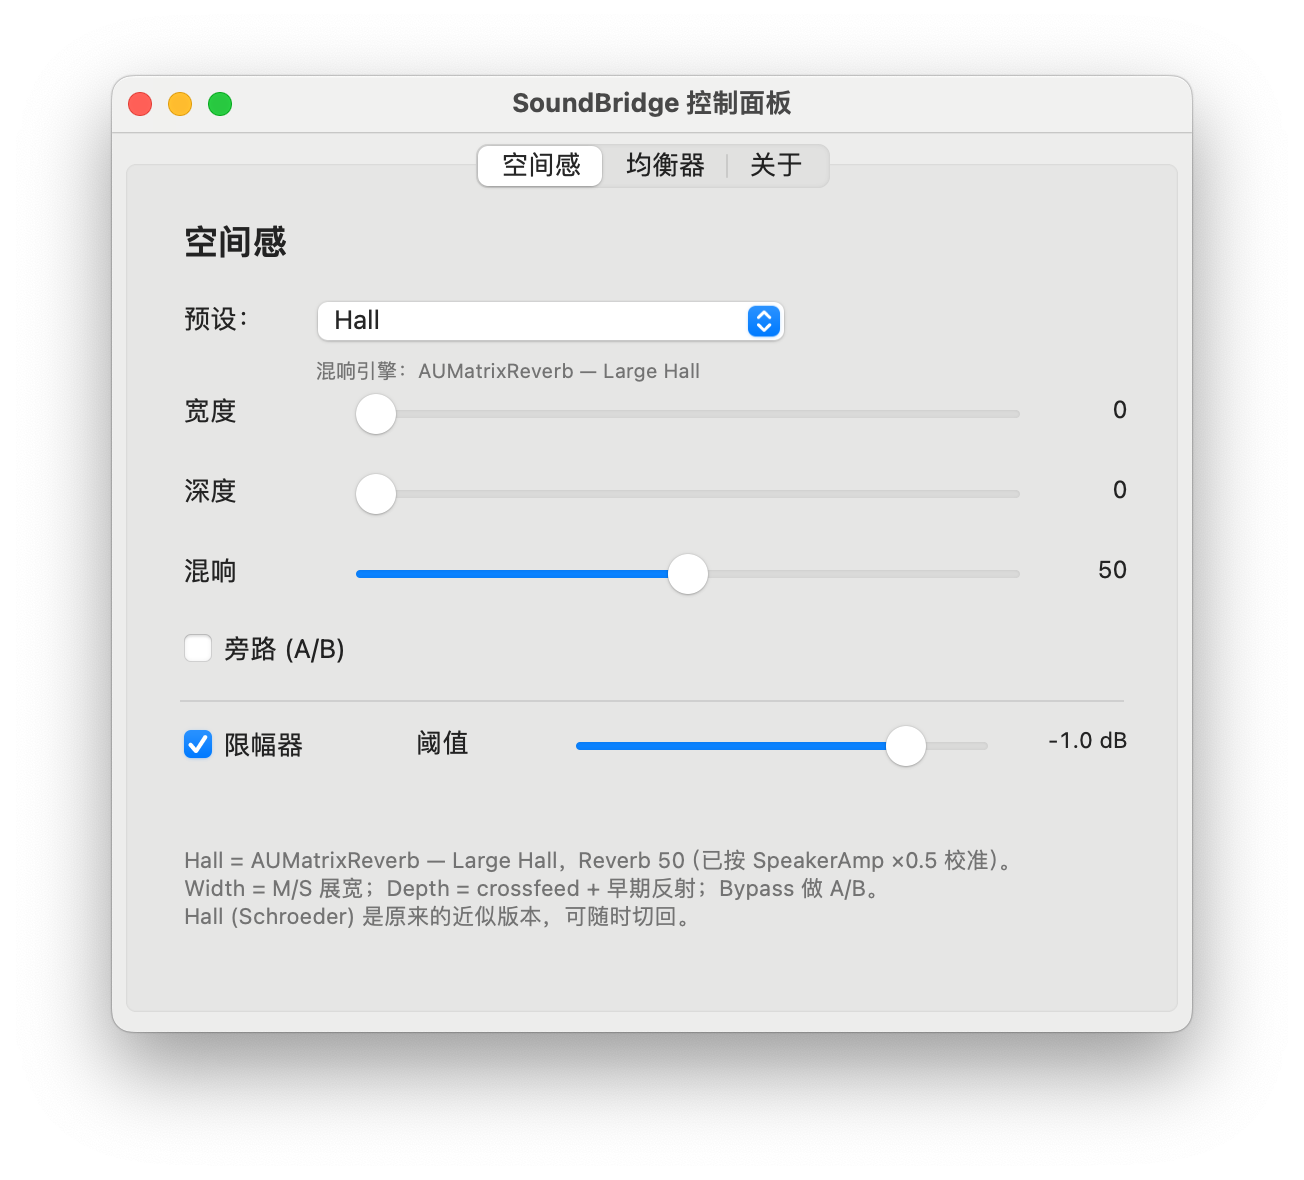
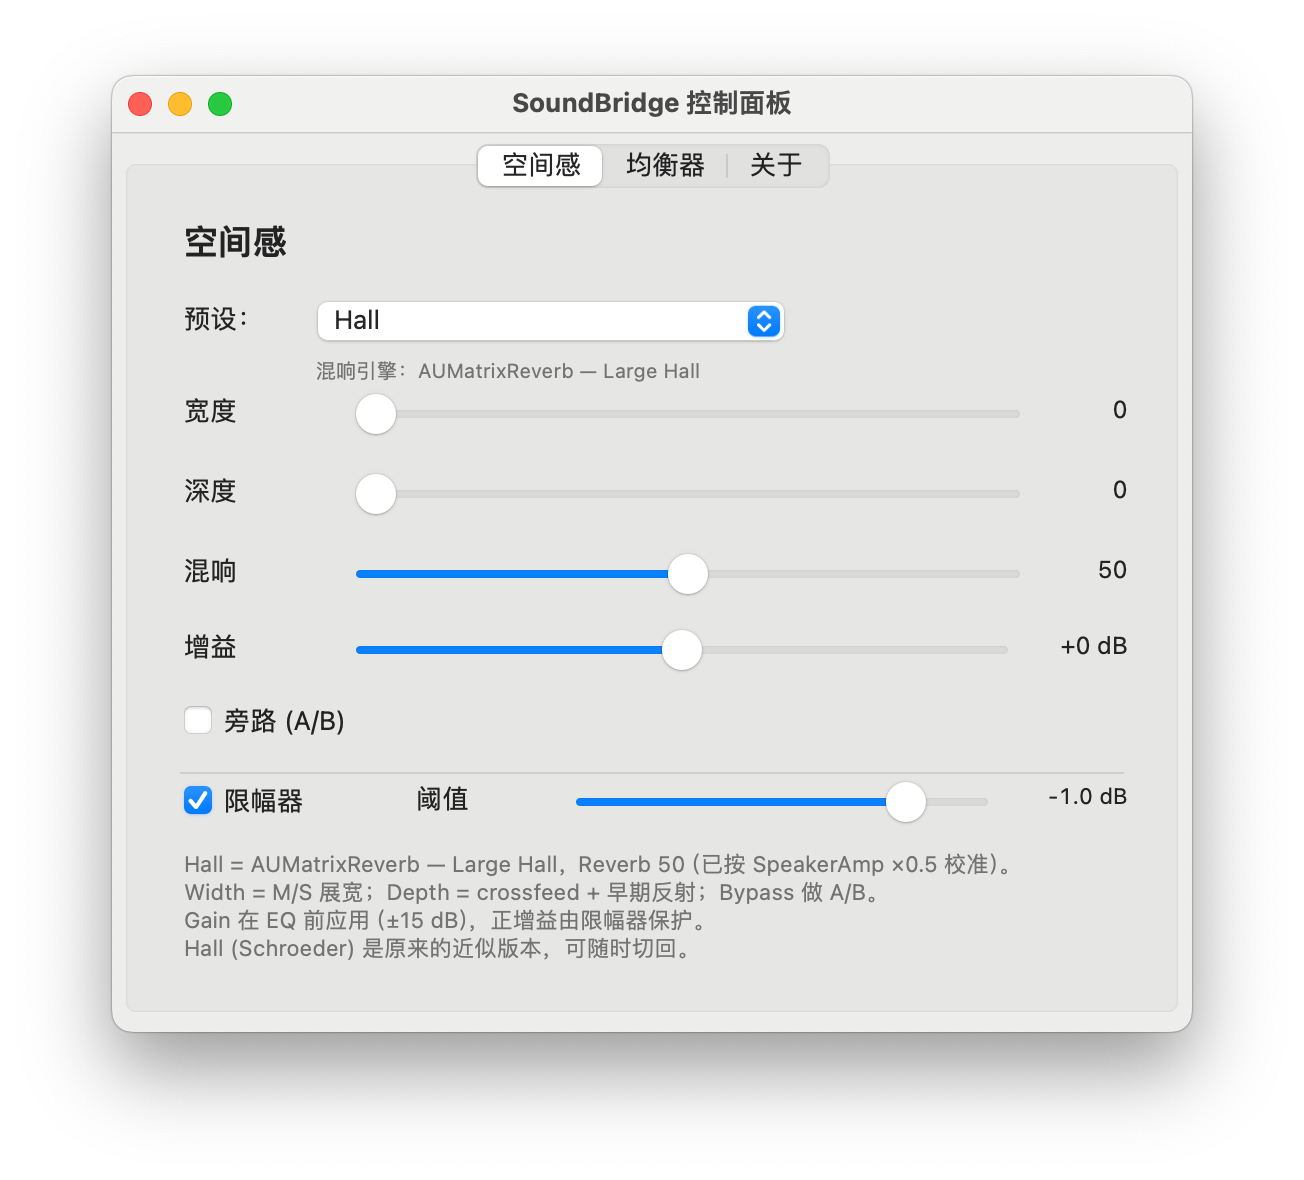
Add pre-amp gain and release v0.2

diff --git a/app/SpatialWindowController.swift b/app/SpatialWindowController.swift
@@ -9,9 +9,11 @@ final class SpatialWindowController: NSWindowController {
     private var widthSlider: NSSlider!
     private var depthSlider: NSSlider!
     private var reverbSlider: NSSlider!
+    private var gainSlider: NSSlider!
     private var widthValueLabel: NSTextField!
     private var depthValueLabel: NSTextField!
     private var reverbValueLabel: NSTextField!
+    private var gainValueLabel: NSTextField!
     private var bypassCheckbox: NSButton!
     private var limiterCheckbox: NSButton!
     private var thresholdSlider: NSSlider!
@@ -135,32 +137,48 @@ final class SpatialWindowController: NSWindowController {
         reverbSlider.isContinuous = true
         content.addSubview(reverbSlider)
 
+        gainValueLabel = NSTextField(labelWithString: "+0 dB")
+        gainValueLabel.frame = NSRect(x: 448, y: 168, width: 52, height: 20)
+        gainValueLabel.alignment = .right
+        gainValueLabel.font = NSFont.monospacedDigitSystemFont(ofSize: 12, weight: .regular)
+        content.addSubview(gainValueLabel)
+
+        let gainLabel = NSTextField(labelWithString: L("增益", "Gain"))
+        gainLabel.frame = NSRect(x: 24, y: 168, width: 80, height: 20)
+        content.addSubview(gainLabel)
+
+        gainSlider = NSSlider(value: 0, minValue: -15, maxValue: 15,
+                              target: self, action: #selector(gainChanged(_:)))
+        gainSlider.frame = NSRect(x: 110, y: 164, width: 330, height: 24)
+        gainSlider.isContinuous = true
+        content.addSubview(gainSlider)
+
         bypassCheckbox = NSButton(checkboxWithTitle: L("旁路 (A/B)", "Bypass (A/B)"),
                                   target: self, action: #selector(bypassChanged(_:)))
-        bypassCheckbox.frame = NSRect(x: 24, y: 168, width: 180, height: 22)
+        bypassCheckbox.frame = NSRect(x: 24, y: 132, width: 180, height: 22)
         content.addSubview(bypassCheckbox)
 
-        let separator = NSBox(frame: NSRect(x: 24, y: 152, width: 472, height: 1))
+        let separator = NSBox(frame: NSRect(x: 24, y: 116, width: 472, height: 1))
         separator.boxType = .separator
         content.addSubview(separator)
 
         limiterCheckbox = NSButton(checkboxWithTitle: L("限幅器", "Limiter"),
                                    target: self, action: #selector(limiterChanged(_:)))
-        limiterCheckbox.frame = NSRect(x: 24, y: 120, width: 120, height: 22)
+        limiterCheckbox.frame = NSRect(x: 24, y: 92, width: 120, height: 22)
         content.addSubview(limiterCheckbox)
 
         let thresholdLabel = NSTextField(labelWithString: L("阈值", "Threshold"))
-        thresholdLabel.frame = NSRect(x: 140, y: 120, width: 80, height: 20)
+        thresholdLabel.frame = NSRect(x: 140, y: 92, width: 80, height: 20)
         content.addSubview(thresholdLabel)
 
         thresholdSlider = NSSlider(value: -1, minValue: -6, maxValue: 0,
                                    target: self, action: #selector(thresholdChanged(_:)))
-        thresholdSlider.frame = NSRect(x: 220, y: 116, width: 210, height: 24)
+        thresholdSlider.frame = NSRect(x: 220, y: 88, width: 210, height: 24)
         thresholdSlider.isContinuous = true
         content.addSubview(thresholdSlider)
 
         thresholdValueLabel = NSTextField(labelWithString: "-1.0 dB")
-        thresholdValueLabel.frame = NSRect(x: 438, y: 120, width: 62, height: 20)
+        thresholdValueLabel.frame = NSRect(x: 438, y: 92, width: 62, height: 20)
         thresholdValueLabel.alignment = .right
         thresholdValueLabel.font = NSFont.monospacedDigitSystemFont(ofSize: 11, weight: .regular)
         content.addSubview(thresholdValueLabel)
@@ -168,11 +186,13 @@ final class SpatialWindowController: NSWindowController {
         let note = NSTextField(wrappingLabelWithString: L(
             "Hall = AUMatrixReverb — Large Hall，Reverb 50（已按 SpeakerAmp ×0.5 校准）。\n" +
             "Width = M/S 展宽；Depth = crossfeed + 早期反射；Bypass 做 A/B。\n" +
+            "Gain 在 EQ 前应用（±15 dB），正增益由限幅器保护。\n" +
             "Hall (Schroeder) 是原来的近似版本，可随时切回。",
             "Hall = AUMatrixReverb — Large Hall, Reverb 50 (calibrated to SpeakerAmp ×0.5).\n" +
             "Width = M/S widening; Depth = crossfeed + early reflections; Bypass for A/B.\n" +
+            "Gain is applied before the EQ (±15 dB); positive gain is protected by the limiter.\n" +
             "Hall (Schroeder) is the previous approximation."))
-        note.frame = NSRect(x: 24, y: 24, width: 472, height: 56)
+        note.frame = NSRect(x: 24, y: 8, width: 472, height: 70)
         note.font = NSFont.systemFont(ofSize: 11)
         note.textColor = .secondaryLabelColor
         content.addSubview(note)
@@ -185,9 +205,11 @@ final class SpatialWindowController: NSWindowController {
         widthSlider.doubleValue = width
         depthSlider.doubleValue = depth
         reverbSlider.doubleValue = reverb
+        gainSlider.doubleValue = Double(dsp.gainDB.value)
         widthValueLabel.stringValue = "\(Int(width.rounded()))"
         depthValueLabel.stringValue = "\(Int(depth.rounded()))"
         reverbValueLabel.stringValue = "\(Int(reverb.rounded()))"
+        gainValueLabel.stringValue = String(format: "%+.0f dB", dsp.gainDB.value)
         bypassCheckbox.state = dsp.bypass.value ? .on : .off
         limiterCheckbox.state = dsp.limiterEnabled.value ? .on : .off
         thresholdSlider.doubleValue = Double(dsp.thresholdDB.value)
@@ -252,6 +274,14 @@ final class SpatialWindowController: NSWindowController {
         reverbValueLabel.stringValue = "\(Int(sender.doubleValue.rounded()))"
         defaults.set(sender.doubleValue, forKey: "spatial.reverb")
         markCustom()
+    }
+
+    @objc private func gainChanged(_ sender: NSSlider) {
+        let db = sender.doubleValue.rounded()
+        sender.doubleValue = db
+        dsp.gainDB.value = Float(db)
+        gainValueLabel.stringValue = String(format: "%+.0f dB", db)
+        defaults.set(db, forKey: "output.gainDB")
     }
 
     @objc private func bypassChanged(_ sender: NSButton) {

diff --git a/engine/DSP.swift b/engine/DSP.swift
@@ -75,6 +75,8 @@ final class SpatialDSP {
     let bypass = AtomicBool(true)
     let limiterEnabled = AtomicBool(true)
     let thresholdDB = AtomicFloat(-1.0)
+    // 前置增益，dB。应用在 EQ 之前；正增益由 limiter 保护。
+    let gainDB = AtomicFloat(0.0)
 
     private let maxFrames = 4096
     private let channelCount = 2
@@ -133,6 +135,7 @@ final class SpatialDSP {
     private var apIndexR = [Int](repeating: 0, count: 2)
 
     private var mix: Float = 0.0
+    private var gainCurrent: Float = 1.0
 
     init() {
         dry = UnsafeMutablePointer<Float>.allocate(capacity: maxFrames * channelCount)
@@ -237,6 +240,19 @@ final class SpatialDSP {
     }
 
     private func processChunk(_ buffer: UnsafeMutablePointer<Float>, frames: Int) {
+        // Pre-amp gain: ramp within the chunk to avoid clicks while dragging.
+        let targetGain = powf(10.0, gainDB.value / 20.0)
+        if abs(targetGain - 1.0) > 0.000001 || abs(gainCurrent - 1.0) > 0.000001 {
+            let step = (targetGain - gainCurrent) / Float(frames)
+            var current = gainCurrent
+            for frame in 0..<frames {
+                current += step
+                buffer[frame * 2 + 0] *= current
+                buffer[frame * 2 + 1] *= current
+            }
+            gainCurrent = targetGain
+        }
+
         eq.process(buffer, frames: frames)
         memcpy(dry, buffer, frames * channelCount * MemoryLayout<Float>.size)
 

diff --git a/app/AppDelegate.swift b/app/AppDelegate.swift
@@ -495,6 +495,7 @@ final class AppDelegate: NSObject, NSApplicationDelegate, NSMenuDelegate {
         let d = defaults
         dsp.width.value = Float((d.object(forKey: "spatial.width") as? Double ?? 0.0) / 100.0)
         dsp.depth.value = Float((d.object(forKey: "spatial.depth") as? Double ?? 0.0) / 100.0)
+        dsp.gainDB.value = Float(d.double(forKey: "output.gainDB"))
 
         if d.object(forKey: "spatial.reverb") != nil {
             dsp.reverb.value = Float(d.double(forKey: "spatial.reverb") / 100.0)

diff --git a/docs/RELEASE_v0.2.md b/docs/RELEASE_v0.2.md
@@ -1,0 +1,126 @@
+# SoundBridge v0.2
+
+Second release. Adds a pre-amp gain control and fixes the login item so it
+appears under **Open at Login**.
+
+## What's new
+
+- **Pre-amp gain −15…+15 dB**
+  - new slider in the **Spatial** tab
+  - applied before the 10-band EQ
+  - positive gain is protected by the look-ahead limiter
+  - persisted in `output.gainDB`
+  - matches the idea of SpeakerAmp's per-device pre-amp attenuator
+    (0…−15 dB) and also allows boost
+- **Login item now uses `SMAppService`**
+  - appears under System Settings → General → Login Items → **Open at Login**
+  - the installer unregisters the old build's item before replacing the app
+  - the new build re-registers on launch when launch-at-login is enabled
+  - avoids stale records caused by ad-hoc signing / changing cdhash
+- **Uninstaller**
+  - unregisters the login item
+  - removes app, HAL plugin, shared memory, preferences and logs
+  - restores the previous output
+- **About tab** now reads the version, app path and current output dynamically
+- **PKG install** no longer relocates `SoundBridge.app` into the build folder
+
+## Assets
+
+| File | Size | SHA-256 |
+|---|---|---|
[2 lines of base64/hex data omitted]
+
+> The app and HAL plugin are ad-hoc signed; the PKGs are unsigned. This is a
+> personal/self-use build. If Gatekeeper blocks a double-click, right-click →
+> Open, or use `sudo installer` as shown below.
+
+## Requirements
+
+- macOS 14.0 or newer
+- Apple Silicon (`arm64`)
+- A physical HDMI / DisplayPort audio output
+- Tested on macOS 14.6 / MacBook Air M3 with LECOO M3221PL (DisplayPort)
+
+## Install
+
+1. Download `SoundBridge.pkg`.
+2. Double-click it, or:
+
+```bash
+sudo installer -pkg SoundBridge.pkg -target /
+```
+
+The installer copies:
+
+- `/Applications/SoundBridge.app`
+- `/Library/Audio/Plug-Ins/HAL/SoundBridge.driver`
+
+and restarts `coreaudiod` — audio is interrupted for 2–3 seconds.
+
+Then open **SoundBridge.app**. The menu bar shows a speaker icon. Clicking it
+switches the system default output to SoundBridge (can be disabled in the menu).
+No microphone permission is requested.
+
+## Uninstall
+
+Download `Uninstall.SoundBridge.pkg`, double-click it, or:
+
+```bash
+sudo installer -pkg "Uninstall.SoundBridge.pkg" -target /
+```
+
+It will:
+
+- quit the app
+- unregister the app's login item
+- remove the HAL plugin and `/Applications/SoundBridge.app`
+- remove `/tmp/soundbridge_ring_v1`, logs and preferences
+- restart `coreaudiod` and Dock
+
+SpeakerAmp / BlackHole / MAXHUB are not modified.
+
+## Known limitations
+
+- Ad-hoc signed / not notarized; personal use only
+- No Intel build
+- CPU around 2.5% on an M3 with `AUMatrixReverb` enabled
+- Spatial processing is calibrated by ear against SpeakerAmp, not bit-identical
+- The shared-memory ring is a local file in `/tmp`; audio never leaves the Mac
+- No App Store distribution
+
+## Notes
+
+- SpeakerAmp is **not** required and is not modified by the installer. It can
+  remain installed as a fallback.
+- This project is not affiliated with SpeakerAmp.
+- Source, build instructions and design notes:
+  https://github.com/jerryforgit/SoundBridge
+
+**Full Changelog**: https://github.com/jerryforgit/SoundBridge/commits/v0.2
+
+---
+
+## 中文说明
+
+SoundBridge v0.2 第二个版本。
+
+新增：
+
+- **前置增益 −15…+15 dB**
+  - 在「空间感」页
+  - EQ 之前应用，正增益由限幅器保护
+  - 设置保存在 `output.gainDB`
+  - 对应 SpeakerAmp 的 Pre-amp attenuator（0…−15 dB），同时支持提升
+- **登录项改为 `SMAppService`**
+  - 显示在 系统设置 → 通用 → 登录项 → **登录时打开**
+  - 安装时先注销旧 build 的登录项，新 build 启动后按偏好重新注册
+- **卸载包**
+  - 注销登录项，删除 App、HAL 插件、共享内存、设置和日志
+  - 恢复之前的输出设备
+- **关于页**改为动态版本、App 路径和当前输出
+- **PKG 安装**不再把 App 重定位到构建目录
+
+安装：双击 `SoundBridge.pkg`，音频会中断 2–3 秒。
+卸载：双击 `Uninstall.SoundBridge.pkg`。
+SpeakerAmp 不会被卸载，可随时回退。

diff --git a/docs/TEST-RESULTS.md b/docs/TEST-RESULTS.md
@@ -301,3 +301,43 @@ LaunchAgent 方案实测不符合预期：
 - 关闭 / 注销后 **登录时打开** 中不再显示 SoundBridge
 - **允许在后台** 中没有 SoundBridge
 - BTM 记录为 `Type: app`、`Bundle Identifier: com.jerry.soundbridge`
+
+## 2026-11-07 · 前置增益（v0.2）
+
+在「空间感」页加入 Gain 滑块：
+
+- 范围 −15…+15 dB，1 dB 步进
+- 在 EQ 之前应用；正增益由 look-ahead limiter 保护
+- 每个音频块内做增益渐变，拖动滑块不会产生 click
+- 保存到 `output.gainDB`，重启后恢复
+
+DSP 离线测试（440 Hz，0.1 幅度，limiter 关闭）：
+
+```
+0 dB  RMS 0.070669
+-6 dB RMS 0.035418  ratio 0.5012  (理论 0.5012)
++6 dB RMS 0.141002  ratio 1.9953  (理论 1.9953)
+```
+
+UI 测试：
+
+- 滑块显示 `+0 dB` / `+6 dB`
+- 辅助功能设置 `slider 4 = 6` 后，`defaults read output.gainDB` 为 6
+- 退出重开后滑块回到 6
+- 重置为 0 后设置写回 0
+- 截图：`docs/images/control-panel.png`
+
+limiter 保护测试（+15 dB，输入 0.5 幅度，阈值 −1 dBFS）：
+
+```
+gain 0   RMS 0.3533  peak 0.5000
+gain +15 RMS 0.6300  peak 0.8915  (阈值 0.8913，overshoot 0.0002)
+```
+
+v0.2 安装后验证：
+
+- App / 插件版本均为 0.2
+- 默认输出 SoundBridge，OUTPUT STARTED id=54
+- Gain 滑块显示 `+0 dB`，`output.gainDB = 0`
+- 登录项 `--login status` = enabled
+- 440 Hz 测试 ring 572–646
